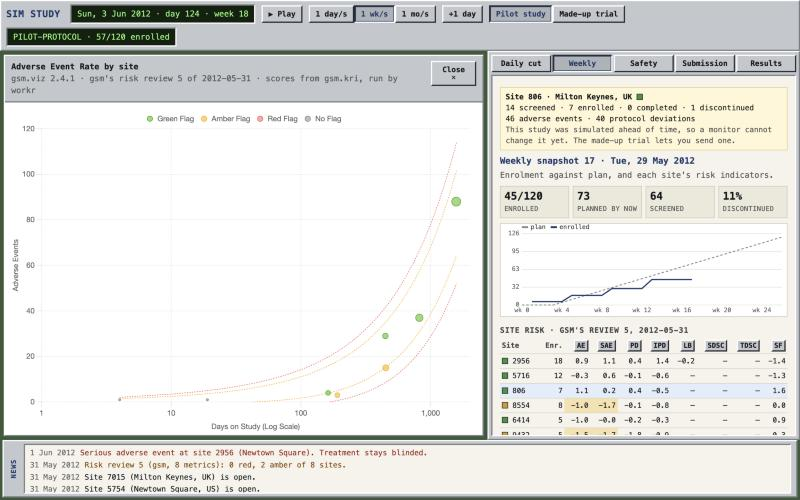
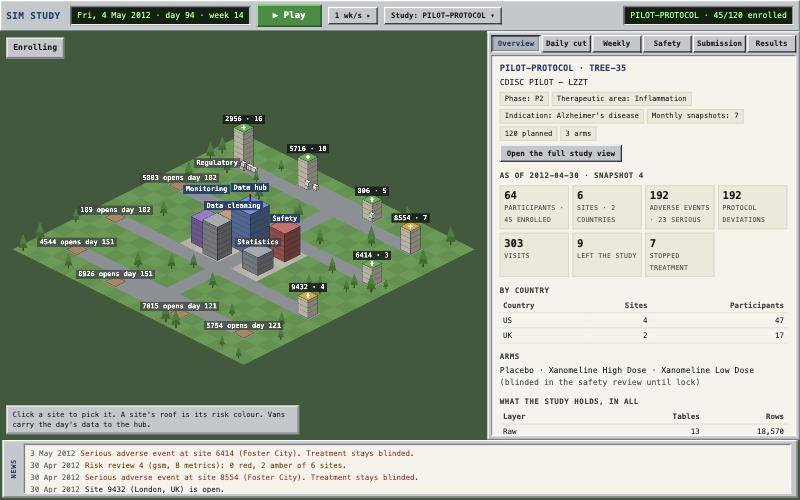
v0.1.0: study.builder's portfolio and overview, clearer Play, folded time controls
- Study button opens study.builder's portfolio; any study there can be played
- Overview tab from study.builder's overview, and its full study view
- Larger Play button; speed and single-step controls fold away
- Site layout for any number of sites

diff --git a/ui.js b/ui.js
@@ -8,8 +8,8 @@
   const still = window.matchMedia && matchMedia("(prefers-reduced-motion: reduce)").matches;
   const canBuild = !!(window.StudyBuilder && window.SIM_STUDY_FILE && window.DecompressionStream);
 
-  let S, mode = "arcade", opened = null, speed = 7, playing = false, acc = 0, sel = null, tab = "today", vans = [], lastT = 0, dirty = true, lastRender = 0, newsN = -1;
-  const TABS = [["today", "Daily cut"], ["week", "Weekly"], ["safety", "Safety"], ["sub", "Submission"], ["csr", "Report"]];
+  let S, mode = "arcade", opened = null, speed = 7, playing = false, acc = 0, sel = null, tab = "over", vans = [], widget = null, lastT = 0, dirty = true, lastRender = 0, newsN = -1;
+  const TABS = [["over", "Overview"], ["today", "Daily cut"], ["week", "Weekly"], ["safety", "Safety"], ["sub", "Submission"], ["csr", "Report"]];
   const FORMS = [["DM", "Demographics"], ["VS", "Vital signs"], ["LB", "Laboratory"], ["EX", "Dosing"], ["AE", "Adverse events"], ["DS", "Disposition"], ["DV", "Protocol deviations"]];
   const ARMC = ["#888888", "#d0661f", "#1f3a6e", "#4f9c94", "#8a6bb0"];
   const VIZ = [["aeExplorer", "ADAE", "Adverse Event Explorer"], ["aeTimelines", "ADAE", "Adverse Event Timelines"], ["hepExplorer", "ADLB", "Hepatic Safety Explorer"], ["resultsOverTime", "ADLB", "Results Over Time"], ["histogram", "ADLB", "Safety Histogram"]];
@@ -152,9 +152,32 @@
   const weekTicks = (maxDay) => { const out = [], step = maxDay > 200 ? 56 : maxDay > 90 ? 28 : 14; for (let d = 0; d <= maxDay; d += step) out.push([d, "wk " + d / 7]); return out; };
 
   // ---------- the other projects' charts, opened over the city ----------
+  const SB_BASE = "https://jwildfire.github.io/study.builder/";
+  function closeViz() { if (widget && widget.destroy) { try { widget.destroy(); } catch (e) { /* the widget is gone already */ } } widget = null; $("viz").hidden = true; $("vizBody").textContent = ""; }
+  function overlay(title, sub, cls) { closeViz(); playing = false; const body = $("vizBody"); body.className = cls || ""; $("viz").hidden = false; $("vizTitle").textContent = title; $("vizSub").textContent = sub; return body; }
+
+  // study.builder's own portfolio: open or build any study there, then play it here
+  async function openChooser() {
+    const body = overlay("Choose a study", "study.builder's portfolio · open a ready-made study or build your own, then press Play this study", "sb");
+    const row = document.createElement("div"); row.className = "chooser ss";
+    const b1 = document.createElement("button"); b1.textContent = "Pilot study (copied into this page)"; b1.onclick = () => start("built");
+    const b2 = document.createElement("button"); b2.textContent = "Made-up trial (you can send monitors)"; b2.onclick = () => start("arcade");
+    const note = document.createElement("span"); note.className = "soft"; note.textContent = "or pick from study.builder's portfolio below:";
+    row.appendChild(b1); row.appendChild(b2); row.appendChild(note); body.appendChild(row);
+    const host = document.createElement("div"); body.appendChild(host);
+    try {
+      const r = await fetch(SB_BASE + "presets/index.json"); if (!r.ok) throw new Error("no answer");
+      widget = window.StudyBuilder.mount(host, { base: SB_BASE, theme: "light", useLabel: "Play this study", onStudy: (study) => start("built", null, study) });
+    } catch (e) { note.textContent = ""; host.textContent = "study.builder's portfolio needs the network, and this page cannot reach it from here. The two studies above work without it. On jwildfire.github.io/sim.study the whole portfolio opens."; }
+  }
+  function openStudyView() {
+    const body = overlay(S.cfg.id + " · study view", "study.builder " + window.StudyBuilder.version + " · the whole study, every layer and every snapshot · not limited to the clock's date", "sb");
+    const host = document.createElement("div"); body.appendChild(host);
+    try { widget = window.StudyBuilder.mountStudy(host, { study: S.study, theme: "light" }); } catch (e) { host.textContent = "The study view could not be drawn here: " + e.message; }
+  }
+
   function openViz(kind, arg) {
-    playing = false;
-    const body = $("vizBody"); body.textContent = ""; $("viz").hidden = false;
+    const body = overlay("", "");
     const head = (t, s) => { $("vizTitle").textContent = t; $("vizSub").textContent = s; };
     try {
       if (kind === "kri") {
@@ -179,6 +202,29 @@
   const dayCharts = (withQ) => { const xm = Math.max(28, S.day);
     return (withQ ? cv("cq", (el) => chart(el, { xmax: xm, ymax: Math.max(10, ...S.cuts.map((x) => x.open)) * 1.1, xl: weekTicks(xm), series: [{ name: "open queries", color: "#b8865c", pts: S.cuts.map((x) => [x.day, x.open]) }] })) : "") +
       cv("cn", (el) => chart(el, { xmax: xm, ymax: Math.max(10, ...S.cuts.map((x) => x.n)) * 1.1, xl: weekTicks(xm), series: [{ name: "records per day", color: "#5c7fb8", bars: true, pts: S.cuts.map((x) => [x.day, x.n]) }] })); };
+
+  function pOver() {
+    if (!built()) {
+      const C = S.cfg;
+      return "<h2>" + esc(C.id) + " · made-up trial</h2><p>" + esc(C.title) + ".</p><div class='facts'><span>Phase 3</span><span>" + C.target + " patients</span><span>" + S.sites.length + " sites</span><span>2 arms</span><span>Seed " + S.seed + "</span></div>" +
+        "<p><b>Primary endpoint.</b> " + esc(C.primary) + ".</p><h3>Visits</h3><table>" + S.visits.map((v) => "<tr><td>" + v.n + "</td><td>day " + v.d + "</td></tr>").join("") + "</table>" +
+        "<div class='note'>Invented in this page. Three sites have a hidden problem: watch the Weekly tab, pick a site and send a monitor. Press <b>Study</b> to play a study from study.builder instead.</div>";
+    }
+    const snap = S.asOf(), O = window.StudyBuilder.overviewOf(snap || S.study), W = window.StudyBuilder.overviewOf(S.study);
+    let h = "<h2>" + esc(O.id) + (S.cfg.nick ? " · " + esc(S.cfg.nick) : "") + "</h2><p>" + esc(S.cfg.title) + "</p>";
+    h += "<div class='facts'>" + W.facts.filter((f) => !/^(Study|Snapshot|Status)$/.test(f.label)).map((f) => "<span>" + esc(f.label) + ": " + esc(f.value) + "</span>").join("") + "<span>" + S.cfg.target + " planned</span><span>" + S.arms.length + " arms</span></div>";
+    h += "<p><button data-view='study'>Open the full study view</button></p>";
+    if (snap) {
+      h += "<h3>As of " + esc(S.gsm.date) + " · snapshot " + S.gsm.number + "</h3><div class='stats'>" + O.counts.slice(0, 8).map((c) => stat(esc(c.value), esc(c.label) + (c.note ? " · " + esc(c.note) : ""))).join("") + "</div>";
+      h += "<h3>By country</h3><table><tr><th>Country</th><th>Sites</th><th>Participants</th></tr>" + O.countries.map((c) => "<tr><td>" + esc(c.country) + "</td><td>" + c.sites + "</td><td>" + c.participants + "</td></tr>").join("") + "</table>";
+    } else h += "<h3>As the clock stands</h3><p class='soft'>Press Play. study.builder's counts appear at the first month's snapshot.</p>";
+    if (S.arms.length) h += "<h3>Arms</h3><p>" + S.arms.map(esc).join(" · ") + (S.unblinded ? "" : " <span class='soft'>(blinded in the safety review until lock)</span>") + "</p>";
+    h += "<h3>What the study holds, in all</h3><table><tr><th>Layer</th><th>Tables</th><th>Rows</th></tr>" + W.layers.map((l) => "<tr><td>" + esc(l.label) + "</td><td>" + l.tables + "</td><td>" + Number(l.rows).toLocaleString("en-GB") + "</td></tr>").join("") + "</table>";
+    if (W.growth && W.growth.length > 1) h += "<h3>How it grows, snapshot by snapshot</h3><table><tr><th>Date</th><th>Participants</th><th>Sites</th><th>Visits</th><th>Events</th></tr>" + W.growth.map((g) => "<tr" + (S.gsm && g.number === S.gsm.number ? " class='sel'" : "") + "><td>" + esc(g.date) + "</td><td>" + g.participants + "</td><td>" + g.sites + "</td><td>" + g.visits + "</td><td>" + g.events + "</td></tr>").join("") + "</table>";
+    else h += "<div class='note'>This study file keeps only its last snapshot, so there is one risk review, at the end. Studies built with every snapshot have one a month.</div>";
+    h += "<p class='soft'>Facts and counts are study.builder's own overview of the study.</p>";
+    return h;
+  }
 
   function pToday() {
     const cut = S.cuts[S.cuts.length - 1];
@@ -293,7 +339,7 @@
     return h;
   }
 
-  const PANELS = { today: pToday, week: pWeek, safety: pSafety, sub: pSub, csr: pCsr };
+  const PANELS = { over: pOver, today: pToday, week: pWeek, safety: pSafety, sub: pSub, csr: pCsr };
   function render() {
     dirty = false; if (!S) return;
     const d = Math.max(0, S.day);
@@ -302,7 +348,9 @@
     $("phase").textContent = cap(S.phase);
     $("play").textContent = S.done ? "■ Finished" : playing ? "❚❚ Pause" : "▶ Play"; $("play").disabled = S.done; $("stepBtn").disabled = S.done;
     document.querySelectorAll("[data-speed]").forEach((b) => b.classList.toggle("on", +b.dataset.speed === speed));
-    document.querySelectorAll("[data-mode]").forEach((b) => { b.classList.toggle("on", b.dataset.mode === mode); b.disabled = b.dataset.mode === "built" && !canBuild; });
+    $("play").classList.toggle("on", playing && !S.done);
+    $("speedBtn").textContent = ({ 1: "1 day/s", 7: "1 wk/s", 30: "1 mo/s" })[speed] + ($("timeMore").hidden ? " ▸" : " ◂");
+    $("pick").textContent = "Study: " + (built() ? S.cfg.id : "made-up trial") + " ▾";
     document.querySelectorAll(".arcade").forEach((el) => { el.hidden = built(); });
     $("tab-csr").textContent = built() ? "Results" : "Report";
     document.querySelectorAll("[data-tab]").forEach((b) => { b.classList.toggle("on", b.dataset.tab === tab); b.setAttribute("aria-selected", b.dataset.tab === tab); });
@@ -331,9 +379,11 @@
     if (dirty && t - lastRender > 220) { lastRender = t; render(); }
     requestAnimationFrame(frame);
   }
-  async function start(m, seed) {
-    playing = false; $("viz").hidden = true; let made = null, problem = null;
-    if (m === "built" && canBuild) {
+  async function start(m, seed, picked) {
+    playing = false; closeViz(); let made = null, problem = null;
+    if (m === "built" && picked) {
+      try { made = window.SimStudy.fromBuilt(picked, {}); if (!made.sites.length) throw new Error("the study has no sites"); made.news.push({ day: 0, kind: "info", text: "Opened " + made.cfg.id + " from study.builder's portfolio. Every row is synthetic." }); } catch (e) { problem = String(e); made = null; }
+    } else if (m === "built" && canBuild) {
       try {
         if (!opened) { $("phase").textContent = "Opening the study…"; opened = await window.SimStudy.openFile(window.SIM_STUDY_FILE); }
         made = window.SimStudy.fromBuilt(opened, window.SIM_STUDY_FILE);
@@ -347,21 +397,22 @@
       made.news.push({ day: 0, kind: "info", text: "Protocol " + made.cfg.id + " approved. Twelve sites are being set up. Seed " + seed + "." });
       if (problem) made.news.push({ day: 0, kind: "safety", text: "The study.builder study could not be opened here, so this is the made-up trial. " + problem });
     }
-    S = made; layout(S.sites.length); sel = null; vans = []; acc = 0; newsN = -1; tab = "today"; dirty = true; render();
+    S = made; layout(S.sites.length); sel = null; vans = []; acc = 0; newsN = -1; tab = "over"; dirty = true; render();
   }
 
   $("tabs").innerHTML = TABS.map(([k, n]) => "<button role='tab' id='tab-" + k + "' data-tab='" + k + "'>" + n + "</button>").join("");
   $("tabs").addEventListener("click", (e) => { const b = e.target.closest("[data-tab]"); if (b) { tab = b.dataset.tab; $("panel").scrollTop = 0; render(); } });
-  $("play").addEventListener("click", () => { playing = !playing; if (playing) $("viz").hidden = true; render(); });
+  $("play").addEventListener("click", () => { playing = !playing; if (playing) closeViz(); render(); });
+  $("speedBtn").addEventListener("click", () => { const m = $("timeMore"); m.hidden = !m.hidden; $("speedBtn").setAttribute("aria-expanded", String(!m.hidden)); render(); });
+  $("pick").addEventListener("click", openChooser);
   $("stepBtn").addEventListener("click", () => { playing = false; tick(); render(); });
   $("auto").addEventListener("change", (e) => { S.auto = e.target.checked; });
   $("fresh").addEventListener("click", () => start("arcade", 1 + Math.floor(Math.random() * 99999)));
-  $("vizClose").addEventListener("click", () => { $("viz").hidden = true; $("vizBody").textContent = ""; });
-  document.querySelectorAll("[data-mode]").forEach((b) => b.addEventListener("click", () => { if (b.dataset.mode !== mode) start(b.dataset.mode); }));
-  document.querySelectorAll("[data-speed]").forEach((b) => b.addEventListener("click", () => { speed = +b.dataset.speed; playing = true; $("viz").hidden = true; render(); }));
+  $("vizClose").addEventListener("click", closeViz);
+  document.querySelectorAll("[data-speed]").forEach((b) => b.addEventListener("click", () => { speed = +b.dataset.speed; playing = true; closeViz(); render(); }));
   $("panel").addEventListener("click", (e) => {
     const m = e.target.closest("[data-monitor]"), k = e.target.closest("[data-kri]"), v = e.target.closest("[data-viz]"), r = e.target.closest("[data-site]");
-    if (m) { S.dispatch(+m.dataset.monitor, "You"); render(); } else if (k) openViz("kri", k.dataset.kri); else if (v) openViz(v.dataset.viz); else if (r) { sel = +r.dataset.site; render(); }
+    if (e.target.closest("[data-view]")) openStudyView(); else if (m) { S.dispatch(+m.dataset.monitor, "You"); render(); } else if (k) openViz("kri", k.dataset.kri); else if (v) openViz(v.dataset.viz); else if (r) { sel = +r.dataset.site; render(); }
   });
   $("city").addEventListener("click", (e) => {
     if (!S) return;
@@ -373,5 +424,5 @@
   window.addEventListener("resize", () => { dirty = true; });
 
   start(hash("study", "pilot") === "made-up" ? "arcade" : "built").then(() => requestAnimationFrame(frame));
-  window.__sim = { get S() { return S; }, tick, render, openViz, start, set tab(v) { tab = v; }, set sel(v) { sel = v; } };
+  window.__sim = { get S() { return S; }, tick, render, openViz, openChooser, openStudyView, start, set tab(v) { tab = v; }, set sel(v) { sel = v; } };
 })();

diff --git a/index.html b/index.html
@@ -16,12 +16,12 @@
   #bar h1 { font:700 15px/1 var(--mono); margin:0 6px 0 0; letter-spacing:.04em; color:var(--navy); }
   #bar .lcd { background:#10210f; color:#8dff7a; padding:4px 9px; border:2px solid; border-color:var(--lo) var(--hi) var(--hi) var(--lo); white-space:nowrap; }
   #bar .grow { flex:1; }
-  button { font:600 12px/1 var(--mono); color:var(--ink); background:var(--face); padding:6px 9px; cursor:pointer;
+  .ss button { font:600 12px/1 var(--mono); color:var(--ink); background:var(--face); padding:6px 9px; cursor:pointer;
            border:2px solid; border-color:var(--hi) var(--dk) var(--dk) var(--hi); }
-  button:active, button.on { border-color:var(--dk) var(--hi) var(--hi) var(--dk); background:#aeb3b8; }
-  button.on { box-shadow:inset 0 0 0 1px var(--navy); color:var(--navy); }
-  button:focus-visible { outline:2px solid var(--navy); outline-offset:1px; }
-  button:disabled { color:var(--lo); cursor:default; }
+  .ss button:active, .ss button.on { border-color:var(--dk) var(--hi) var(--hi) var(--dk); background:#aeb3b8; }
+  .ss button.on { box-shadow:inset 0 0 0 1px var(--navy); color:var(--navy); }
+  .ss button:focus-visible { outline:2px solid var(--navy); outline-offset:1px; }
+  .ss button:disabled { color:var(--lo); cursor:default; }
   label.chk { display:inline-flex; gap:5px; align-items:center; cursor:pointer; }
   #main { flex:1; display:flex; min-height:0; }
   #cityWrap { flex:1; position:relative; min-width:0; }
@@ -36,10 +36,10 @@
   #panel h3 { font:700 12px/1.3 var(--mono); margin:14px 0 4px; text-transform:uppercase; letter-spacing:.06em; color:#444; }
   #panel p { margin:4px 0; }
   .soft { color:#555; }
-  table { border-collapse:collapse; width:100%; font-size:12px; }
-  th, td { text-align:right; padding:3px 5px; border-bottom:1px solid #d9d4c5; white-space:nowrap; }
-  th:first-child, td:first-child { text-align:left; }
-  th { font-weight:700; color:#444; }
+  #panel table { border-collapse:collapse; width:100%; font-size:12px; }
+  #panel th, #panel td { text-align:right; padding:3px 5px; border-bottom:1px solid #d9d4c5; white-space:nowrap; }
+  #panel th:first-child, #panel td:first-child { text-align:left; }
+  #panel th { font-weight:700; color:#444; }
   tr.sel td { background:#e3ecfb; }
   tr.pick { cursor:pointer; }
   .dot { display:inline-block; width:10px; height:10px; border:1px solid var(--dk); vertical-align:-1px; }
@@ -58,7 +58,14 @@
   #vizHead { display:flex; justify-content:space-between; gap:10px; align-items:flex-start; padding:8px 10px; background:var(--face); border-bottom:2px solid var(--lo); }
   #vizBody { flex:1; overflow:auto; padding:10px; background:#fff; font-family:system-ui,-apple-system,"Segoe UI",sans-serif; }
   table.kri th, table.kri td { padding:3px 3px; font-size:11.5px; }
-  button.lnk { padding:2px 3px; font-size:11px; }
+  .ss button.lnk { padding:2px 3px; font-size:11px; }
+  .ss button.primary { font-size:14px; padding:9px 18px; background:#2f8f3a; color:#fff; border-color:#8fe39a #14501b #14501b #8fe39a; min-width:104px; letter-spacing:.03em; }
+  .ss button.primary.on, .ss button.primary:active { background:#c98a12; border-color:#7a5200 #ffd98a #ffd98a #7a5200; color:#fff; box-shadow:none; }
+  .ss button.primary:disabled { background:#8f949a; color:#e6e6e6; border-color:var(--hi) var(--dk) var(--dk) var(--hi); }
+  #pick { max-width:42vw; overflow:hidden; text-overflow:ellipsis; white-space:nowrap; }
+  #vizBody.sb { font:15px/1.5 system-ui,-apple-system,"Segoe UI",sans-serif; color:#15171a; }
+  .chooser { display:flex; flex-wrap:wrap; gap:8px; align-items:center; margin:0 0 12px; padding:0 0 12px; border-bottom:1px solid #ddd; font:13px/1.4 var(--mono); }
+  .facts { display:flex; flex-wrap:wrap; gap:5px; margin:6px 0; } .facts span { background:#ece8db; border:1px solid #d0cab8; padding:2px 7px; font-size:11.5px; }
   .ck.done i { color:var(--good); } .ck.running i { color:var(--warn); } .ck.pending { color:#888; }
   .ck em { margin-left:auto; font-style:normal; color:#555; white-space:nowrap; }
   .note { background:#fff7d6; border:1px solid #e2cf86; padding:6px 8px; margin:8px 0; font-size:12px; }
@@ -76,18 +83,19 @@
 </style>
 </head>
 <body>
-<header id="bar" class="bevel">
-  <h1>SIM STUDY</h1>
+<header id="bar" class="bevel ss">
+  <h1 title="Sim Study v0.1.0">SIM STUDY</h1>
   <span class="lcd" id="date">Day 0</span>
-  <button id="play" aria-label="Play or pause">▶ Play</button>
-  <span role="group" aria-label="Speed">
-    <button data-speed="1" title="One study day a second">1 day/s</button><button data-speed="7" title="One week a second">1 wk/s</button><button data-speed="30" title="One month a second">1 mo/s</button>
+  <button id="play" class="primary" aria-label="Play or pause">▶ Play</button>
+  <button id="speedBtn" aria-expanded="false" aria-controls="timeMore" title="Speed and single steps">1 wk/s ▾</button>
+  <span id="timeMore" hidden>
+    <span role="group" aria-label="Speed">
+      <button data-speed="1" title="One study day a second">1 day/s</button><button data-speed="7" title="One week a second">1 wk/s</button><button data-speed="30" title="One month a second">1 mo/s</button>
+    </span>
+    <button id="stepBtn" title="Advance one day">+1 day</button>
   </span>
-  <button id="stepBtn" title="Advance one day">+1 day</button>
   <label class="chk arcade" title="Send a monitor by itself when a site stays red for two weeks"><input type="checkbox" id="auto" checked> Autopilot</label>
-  <span role="group" aria-label="Which study">
-    <button data-mode="built" title="The CDISC pilot protocol study, built by study.builder with gsm.datasim">Pilot study</button><button data-mode="arcade" title="A trial invented in this page, where you can send monitors">Made-up trial</button>
-  </span>
+  <button id="pick" title="Choose a study from study.builder's portfolio, or the made-up trial">Study ▾</button>
   <span class="grow"></span>
   <span class="lcd" id="money">$0.0M</span>
   <button id="fresh" class="arcade" title="Start again with a different made-up trial">New trial</button>
@@ -97,12 +105,12 @@
     <canvas id="city" aria-label="Map of the study: twelve sites around the sponsor's campus"></canvas>
     <div id="phase" class="bevel">Start-up</div>
     <div id="viz" class="bevel" hidden>
-      <div id="vizHead"><div><b id="vizTitle"></b><br><span id="vizSub" class="soft"></span></div><button id="vizClose">Close ✕</button></div>
+      <div id="vizHead" class="ss"><div><b id="vizTitle"></b><br><span id="vizSub" class="soft"></span></div><button id="vizClose">Close ✕</button></div>
       <div id="vizBody"></div>
     </div>
-    <div id="hint" class="bevel">Click a site to pick it. A site's roof is its risk colour. Vans carry the day's data to the hub.</div>
+    <div id="hint" class="bevel ss">Click a site to pick it. A site's roof is its risk colour. Vans carry the day's data to the hub.</div>
   </div>
-  <aside id="side" class="bevel">
+  <aside id="side" class="bevel ss">
     <div id="tabs" role="tablist"></div>
     <div id="panel" class="sunk" role="tabpanel"></div>
   </aside>

diff --git a/README.md b/README.md
@@ -8,14 +8,18 @@ the analysis comes out. It is drawn as a small city, with the sites around a spo
 
 **▶ Try it: <https://jwildfire.github.io/sim.study/>**
 
-![Sim Study: the pilot study at month five, with gsm.viz's adverse event chart open](docs/sim-study.jpg)
+![Sim Study: the pilot study in its fourth month, with study.builder's overview beside the city](docs/sim-study.jpg)
 
-Status: a prototype. Every row is synthetic. Nothing here is qualified, and nothing here is a
+Status: v0.1.0, a prototype. Every row is synthetic. Nothing here is qualified, and nothing here is a
 submission.
 
 ## What it does
 
-- **A clock.** Play, pause, one day at a time, or a day, a week or a month per second.
+- **A clock.** Play and pause; the speed button unfolds a day, a week or a month per second, and single days.
+- **Any study from study.builder's portfolio.** The Study button opens study.builder's own portfolio:
+  open a ready-made study, or describe and build one, then press Play this study.
+- **A study overview.** study.builder's facts and counts for the study as the clock stands, and its full
+  study view (every layer, table and participant) one press away.
 - **Daily raw data cuts.** The rows of each raw table that are dated today, and to date.
 - **Weekly operational snapshots.** Enrolment against plan, screening and discontinuations.
 - **Risk-based quality monitoring.** Each month's review of every site on eight metrics, with
@@ -26,18 +30,21 @@ submission.
 - **A road to submission.** A checklist of what a submission needs, showing what is built and
   what is not.
 
-## Two studies to play
+## Which study
 
-| | Pilot study | Made-up trial |
+| | A study.builder study | Made-up trial |
 |---|---|---|
-| What it is | The CDISC pilot protocol, built by study.builder with gsm.datasim: 12 sites, three arms, seven monthly snapshots | A phase 3 trial invented in the page from a seed |
+| What it is | Any study from study.builder's portfolio. The CDISC pilot protocol study opens first: 12 sites, three arms, seven monthly snapshots | A phase 3 trial invented in the page from a seed |
 | Where the data comes from | The building blocks below. Sim Study invents nothing | `sim.js` |
-| Risk reviews | gsm's own scores and flags, monthly | A simple weekly check against the study's own rate |
+| Risk reviews | gsm's own scores and flags, at each snapshot the study kept | A simple weekly check against the study's own rate |
 | Charts | safety.viz and gsm.viz, on the study as it stood that month | The page's own small charts |
 | Can you change it? | No. It was simulated ahead of time | Yes. Three sites have a hidden problem; send a monitor to find and fix it |
 
-The pilot study opens first. Add `#study=made-up` to the address for the other, and `#seed=42`
-for a particular made-up trial.
+- The pilot study is copied into the page and needs no network. The rest of the portfolio is read from
+  study.builder's site, and building a new study there starts R in the browser (about 55 MB the first time).
+- A study built with every monthly snapshot gets a risk review a month; one that kept only its last
+  snapshot gets one, at the end.
+- Add `#study=made-up` to the address for the made-up trial, and `#seed=42` for a particular one.
 
 ## Building blocks
 
@@ -47,7 +54,7 @@ Sim Study is a thin layer. The work is done by the projects below.
 
 | Block | What it does here | Whose |
 |---|---|---|
-| [study.builder](https://github.com/jwildfire/study.builder) 0.5.0-rc.2 | Builds the study in layers (raw, mapped, ADaM, analysis, reporting) with a snapshot for every month. Sim Study opens one of its ready-made study files and asks it for the study as it stood on any date | Jeremy Wildfire |
+| [study.builder](https://github.com/jwildfire/study.builder) 0.5.0-rc.2 | Builds the study in layers (raw, mapped, ADaM, analysis, reporting) with a snapshot for every month. Sim Study mounts its portfolio and study view, reads its overview, and asks a study for itself as it stood on any date | Jeremy Wildfire |
 | [safety.viz](https://github.com/jwildfire/safety.viz) 1.12.0 | The safety charts: Adverse Event Explorer, Adverse Event Timelines, Hepatic Safety Explorer, Results Over Time, Safety Histogram | Jeremy Wildfire; an update of the [safetyGraphics](https://github.com/SafetyGraphics/safetyGraphics) renderers |
 | [gsm.datasim](https://github.com/Gilead-Public/gsm.datasim) 2.1.0 | Simulates every raw row, month by month | Gilead Sciences |
 | [gsm.mapping](https://github.com/Gilead-Public/gsm.mapping), [gsm.kri](https://github.com/Gilead-Public/gsm.kri), [gsm.reporting](https://github.com/Gilead-Public/gsm.reporting), [gsm.core](https://github.com/Gilead-Public/gsm.core) | Good Statistical Monitoring: map the raw data, score each site on eight metrics, and shape the results for charts | Gilead Sciences |
